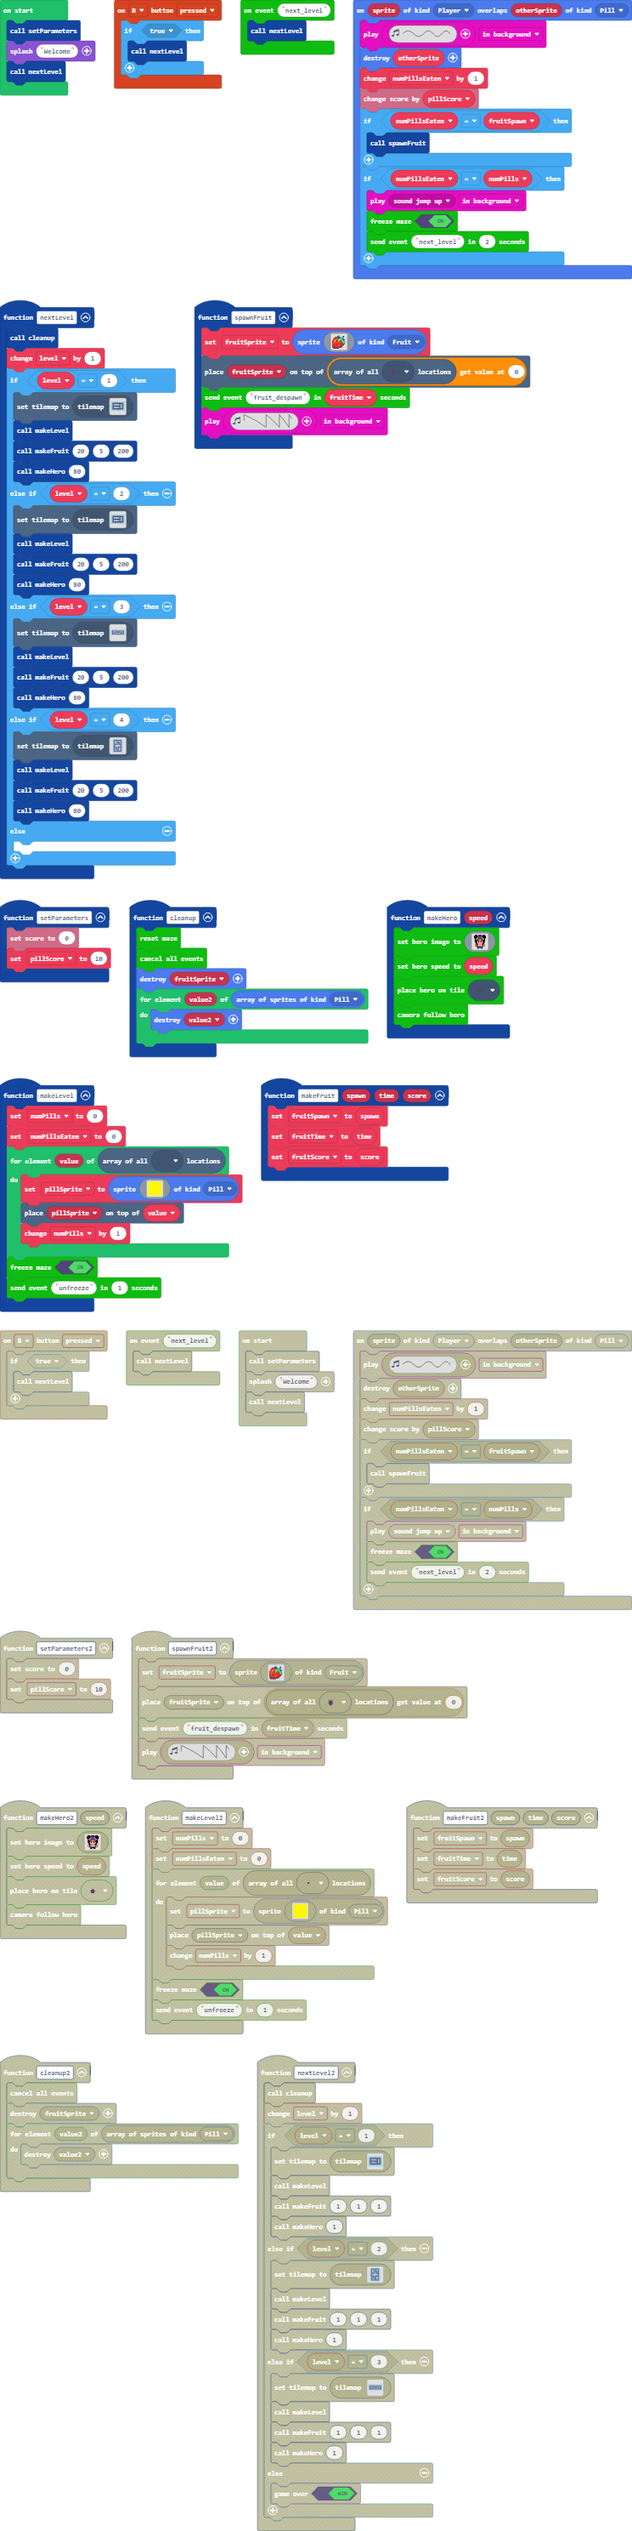
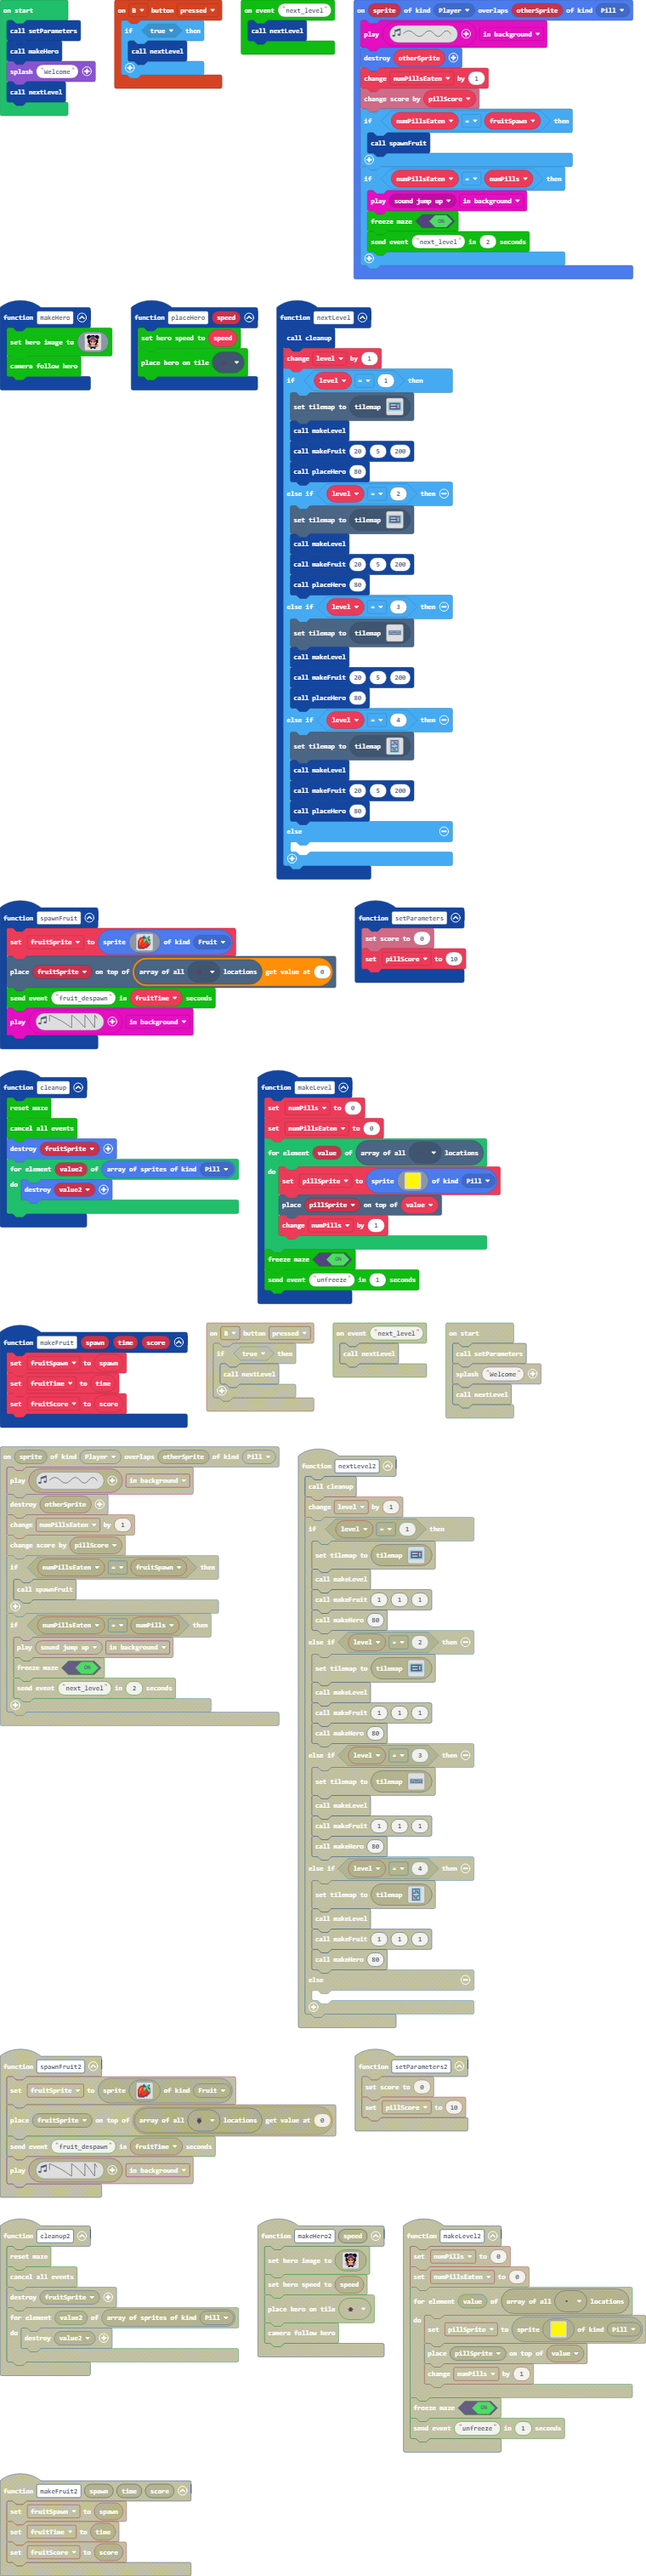
Properly separate hero create and place

diff --git a/tilemap.g.ts b/tilemap.g.ts
@@ -242,6 +242,63 @@ namespace myTiles {
 2 . . . . . . . . 2 
 2 2 2 2 2 2 2 2 2 2 
 `, [myTiles.transparency16,myTiles.tile2,myTiles.tile3,myTiles.tile4,myTiles.tile1,myTiles.tile5], TileScale.Sixteen);
+            case "level14":
+            case "level14":return tiles.createTilemap(hex`1000100000000000000000000000000000000000000000000000000000000000000000000000000000000000000000000000000000000000000000000000000000000000000000000000000000000000000000000000000000000000000000000000000000000000000000000000000000000000000000000000000000000000000000000000000000000000000000000000000000000000000000000000000000000000000000000000000000000000000000000000000000000000000000000000000000000000000000000000000000000000000000000000000000000000000000000000000000000000000000000000000000000000000000000000000000000000`, img`
+. . . . . . . . . . . . . . . . 
+. . . . . . . . . . . . . . . . 
+. . . . . . . . . . . . . . . . 
+. . . . . . . . . . . . . . . . 
+. . . . . . . . . . . . . . . . 
+. . . . . . . . . . . . . . . . 
+. . . . . . . . . . . . . . . . 
+. . . . . . . . . . . . . . . . 
+. . . . . . . . . . . . . . . . 
+. . . . . . . . . . . . . . . . 
+. . . . . . . . . . . . . . . . 
+. . . . . . . . . . . . . . . . 
+. . . . . . . . . . . . . . . . 
+. . . . . . . . . . . . . . . . 
+. . . . . . . . . . . . . . . . 
+. . . . . . . . . . . . . . . . 
+`, [myTiles.transparency16], TileScale.Sixteen);
+            case "level15":
+            case "level15":return tiles.createTilemap(hex`1000100000000000000000000000000000000000000000000000000000000000000000000000000000000000000000000000000000000000000000000000000000000000000000000000000000000000000000000000000000000000000000000000000000000000000000000000000000000000000000000000000000000000000000000000000000000000000000000000000000000000000000000000000000000000000000000000000000000000000000000000000000000000000000000000000000000000000000000000000000000000000000000000000000000000000000000000000000000000000000000000000000000000000000000000000000000000`, img`
+. . . . . . . . . . . . . . . . 
+. . . . . . . . . . . . . . . . 
+. . . . . . . . . . . . . . . . 
+. . . . . . . . . . . . . . . . 
+. . . . . . . . . . . . . . . . 
+. . . . . . . . . . . . . . . . 
+. . . . . . . . . . . . . . . . 
+. . . . . . . . . . . . . . . . 
+. . . . . . . . . . . . . . . . 
+. . . . . . . . . . . . . . . . 
+. . . . . . . . . . . . . . . . 
+. . . . . . . . . . . . . . . . 
+. . . . . . . . . . . . . . . . 
+. . . . . . . . . . . . . . . . 
+. . . . . . . . . . . . . . . . 
+. . . . . . . . . . . . . . . . 
+`, [myTiles.transparency16], TileScale.Sixteen);
+            case "level16":
+            case "level16":return tiles.createTilemap(hex`1000100000000000000000000000000000000000000000000000000000000000000000000000000000000000000000000000000000000000000000000000000000000000000000000000000000000000000000000000000000000000000000000000000000000000000000000000000000000000000000000000000000000000000000000000000000000000000000000000000000000000000000000000000000000000000000000000000000000000000000000000000000000000000000000000000000000000000000000000000000000000000000000000000000000000000000000000000000000000000000000000000000000000000000000000000000000000`, img`
+. . . . . . . . . . . . . . . . 
+. . . . . . . . . . . . . . . . 
+. . . . . . . . . . . . . . . . 
+. . . . . . . . . . . . . . . . 
+. . . . . . . . . . . . . . . . 
+. . . . . . . . . . . . . . . . 
+. . . . . . . . . . . . . . . . 
+. . . . . . . . . . . . . . . . 
+. . . . . . . . . . . . . . . . 
+. . . . . . . . . . . . . . . . 
+. . . . . . . . . . . . . . . . 
+. . . . . . . . . . . . . . . . 
+. . . . . . . . . . . . . . . . 
+. . . . . . . . . . . . . . . . 
+. . . . . . . . . . . . . . . . 
+. . . . . . . . . . . . . . . . 
+`, [myTiles.transparency16], TileScale.Sixteen);
         }
         return null;
     })

diff --git a/main.ts b/main.ts
@@ -7,7 +7,7 @@ function setParameters () {
     info.setScore(0)
     pillScore = 10
 }
-function makeHero (speed: number) {
+function makeHero () {
     maze.createHero(img`
         . f f f . f f f f . f f f . 
         f f f f f c c c c f f f f f 
@@ -26,8 +26,6 @@ function makeHero (speed: number) {
         . . . . f f f f f f . . . . 
         . . . . f f . . f f . . . . 
         `)
-    maze.setHeroSpeed(speed)
-    maze.placeHero(assets.tile`tile_hero`)
     maze.cameraFollowHero()
 }
 controller.B.onEvent(ControllerButtonEvent.Pressed, function () {
@@ -95,22 +93,22 @@ function nextLevel () {
         tiles.setCurrentTilemap(tilemap`level1`)
         makeLevel()
         makeFruit(20, 5, 200)
-        makeHero(80)
+        placeHero(80)
     } else if (level == 2) {
         tiles.setCurrentTilemap(tilemap`level1`)
         makeLevel()
         makeFruit(20, 5, 200)
-        makeHero(80)
+        placeHero(80)
     } else if (level == 3) {
         tiles.setCurrentTilemap(tilemap`level10`)
         makeLevel()
         makeFruit(20, 5, 200)
-        makeHero(80)
+        placeHero(80)
     } else if (level == 4) {
         tiles.setCurrentTilemap(tilemap`level7`)
         makeLevel()
         makeFruit(20, 5, 200)
-        makeHero(80)
+        placeHero(80)
     } else {
     	
     }
@@ -139,6 +137,10 @@ sprites.onOverlap(SpriteKind.Player, SpriteKind.Pill, function (sprite, otherSpr
 maze.onEvent("next_level", function () {
     nextLevel()
 })
+function placeHero (speed: number) {
+    maze.setHeroSpeed(speed)
+    maze.placeHero(assets.tile`tile_hero`)
+}
 let level = 0
 let fruitSpawn = 0
 let fruitScore = 0
@@ -149,5 +151,6 @@ let numPillsEaten = 0
 let numPills = 0
 let pillScore = 0
 setParameters()
+makeHero()
 game.splash("Welcome")
 nextLevel()

diff --git a/maze_mover.ts b/maze_mover.ts
@@ -38,11 +38,6 @@ namespace maze {
             this._vx = this._sprite.vx
             this._vy = this._sprite.vy
 
-            const loc = this._sprite.tilemapLocation()
-            this._tx = loc.col
-            this._ty = loc.row
-            this.updateCanMove()
-
             // Hide until placed
             this.show(false)
         }
